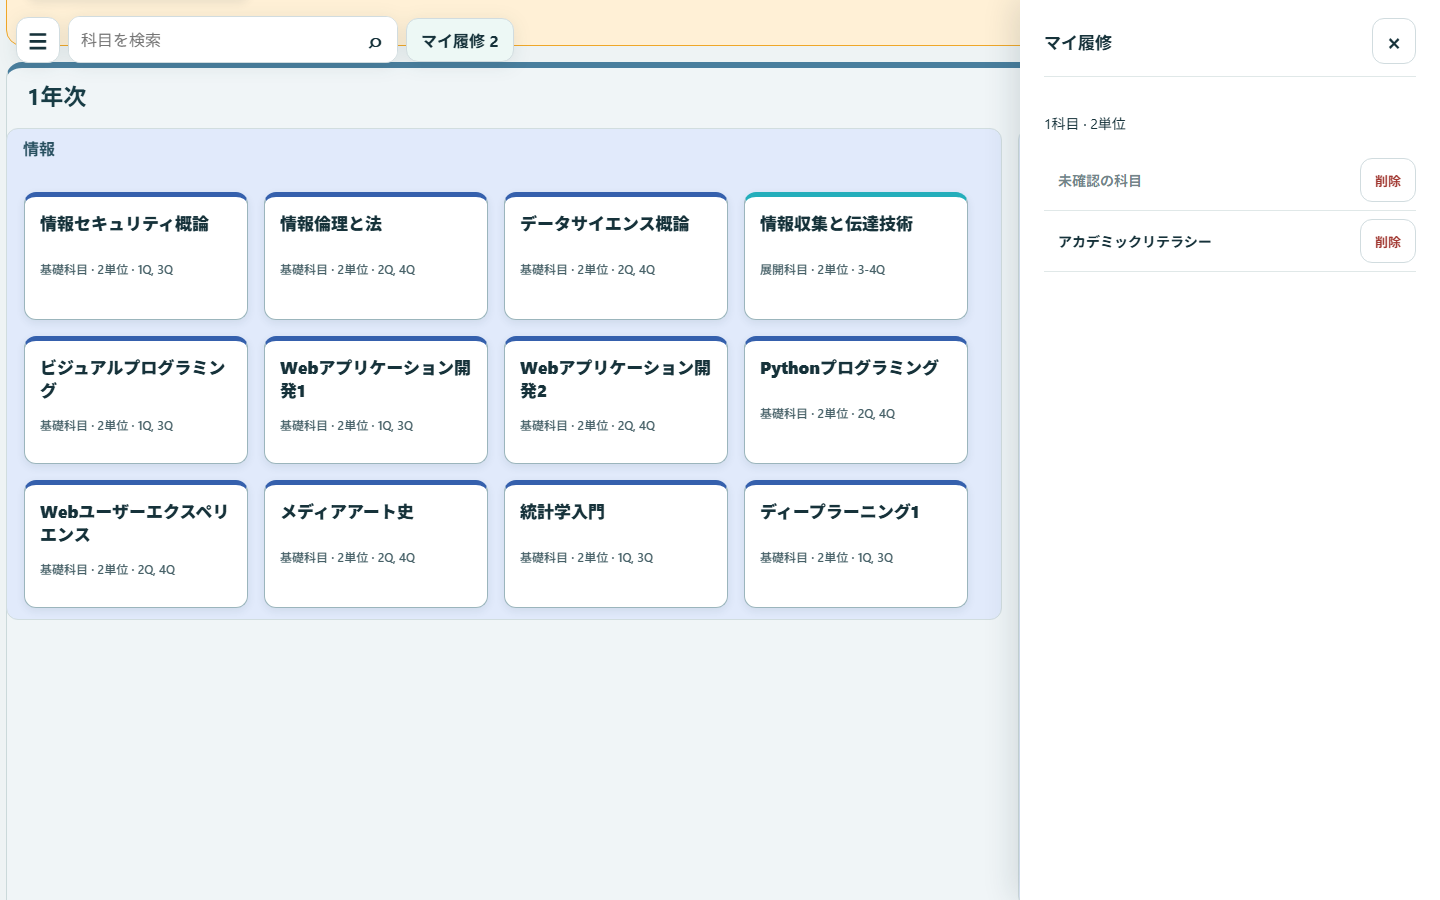
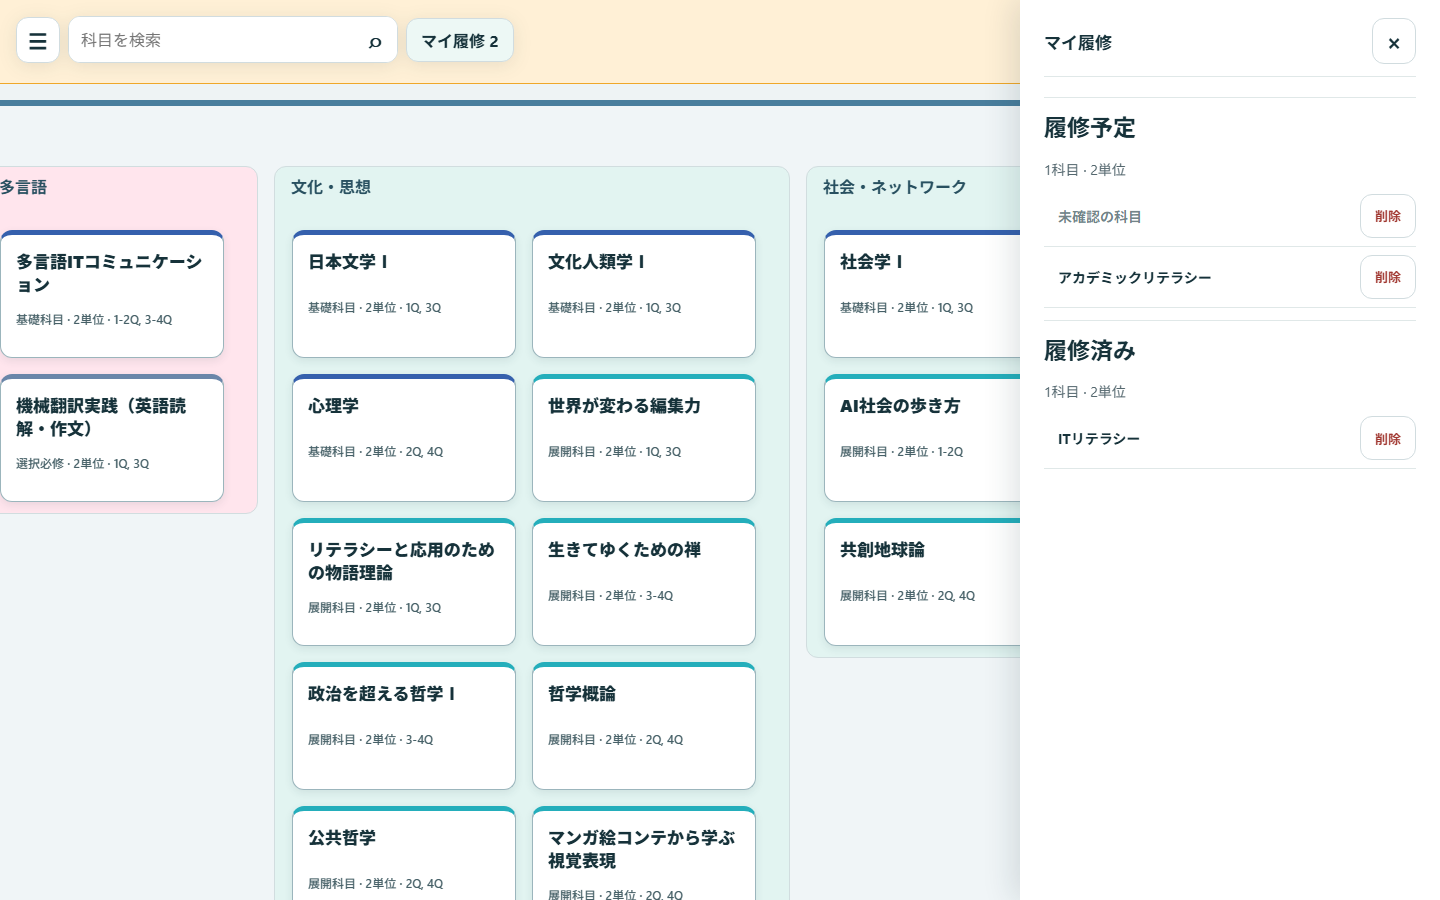
feat: clarify curriculum map enrollment actions

diff --git a/curriculum-map.js b/curriculum-map.js
@@ -82,6 +82,25 @@
     return { scale, x: anchor.x - (anchor.x - camera.x) * scale / camera.scale, y: anchor.y - (anchor.y - camera.y) * scale / camera.scale };
   };
   const centerOn = (box, viewport, scale = 1) => ({ scale, x: viewport.width / 2 - (box.x + box.width / 2) * scale, y: viewport.height / 2 - (box.y + box.height / 2) * scale });
+  // The map opens on the central upper part of the curriculum, where the
+  // first-year subject bands form a useful orientation point. Keeping this
+  // separate from region/search cameras means those explicit movements retain
+  // their existing targets.
+  const initialCamera = (layout, viewport) => {
+    const firstYear = layout.years[0];
+    const centralField = layout.fields.find((field) => field.field === '文化・思想');
+    const centralCard = layout.positions
+      .filter((box) => box.region === 'year-1' && box.field === centralField?.field)
+      .sort((a, b) => a.x - b.x || a.y - b.y)[0];
+    const centralStart = layout.positions
+      .filter((box) => box.region === 'year-1' && box.field === '多言語')
+      .sort((a, b) => a.x - b.x || a.y - b.y)[0];
+    const firstVisibleX = viewport.width < 600
+      ? (centralCard?.x || layout.width / 2)
+      : (centralStart?.x || centralCard?.x || layout.width / 2);
+    const target = { x: firstVisibleX + viewport.width / 2, y: firstYear.y + 350 };
+    return { scale: 1, x: viewport.width / 2 - target.x, y: viewport.height / 2 - target.y };
+  };
   const fitMap = (layout, viewport) => {
     const scale = Math.min((viewport.width - 40) / layout.width, (viewport.height - 140) / layout.height, 1);
     return { scale: Math.max(.05, scale), x: (viewport.width - layout.width * scale) / 2, y: (viewport.height - layout.height * scale) / 2 + 20 };
@@ -136,9 +155,9 @@
         cameraFrame = null;
         world.style.transform = `translate(${camera.x}px, ${camera.y}px) scale(${camera.scale})`;
         doc.getElementById('map-zoom-value').textContent = `${Math.round(camera.scale * 100)}%`;
-        // The leftmost fully readable field is the navigation context on a
-        // wide monitor, where several neighboring fields share the viewport.
-        const center = { x: (Math.min(size().width / 2, 280) - camera.x) / camera.scale, y: (size().height / 2 - camera.y) / camera.scale };
+        // The viewport center is the navigation context so the label follows
+        // the central map area on both desktop and phone layouts.
+        const center = { x: (size().width / 2 - camera.x) / camera.scale, y: (size().height / 2 - camera.y) / camera.scale };
         const year = layout.years.find((region) => center.y >= region.y && center.y < region.y + region.height);
         const field = layout.fields.find((region) => center.x >= region.x && center.x < region.x + region.width);
         doc.getElementById('map-location').textContent = center.y < layout.introHeight ? '導入科目' : center.y >= layout.projectY ? '卒業プロジェクト' : year ? `${year.year}年次 · ${field?.field || '分野を選択'}` : 'カリキュラムマップ';
@@ -157,14 +176,15 @@
       return layout.years.find((year) => centerY >= year.y && centerY < year.y + year.height)?.year || 1;
     };
     const currentField = () => {
-      const centerX = (Math.min(size().width / 2, 280) - camera.x) / camera.scale;
+      const centerX = (size().width / 2 - camera.x) / camera.scale;
       return layout.fields.find((field) => centerX >= field.x && centerX < field.x + field.width)?.field || '情報';
     };
     const regionCamera = (year, field) => ({
       scale: 1,
-      // Start with a complete card near the left edge. Centering an entire
-      // field wasted much of a phone viewport and hid the adjacent cards.
-      x: (size().width < 600 ? 40 : 24) - field.x - 18,
+      // On desktop center the selected field so its location label matches
+      // the view. On phones keep the first card near the left edge because a
+      // full field is wider than the viewport.
+      x: size().width < 600 ? 40 - field.x - 18 : size().width / 2 - field.x - field.width / 2,
       // Keep the preceding row completely above the viewport. The year
       // heading still clears the floating toolbar at normal zoom.
       y: 62 - year.y
@@ -243,7 +263,7 @@
         node.classList.toggle('is-registered', registered.has(id));
         node.classList.toggle('is-completed', completed.has(id));
         node.classList.toggle('is-selected', selectedId === id);
-        node.querySelector('.course-state').textContent = completed.has(id) ? '履修済み' : registered.has(id) ? 'マイ履修 ✓' : '';
+        node.querySelector('.course-state').textContent = completed.has(id) ? '履修済み ✓' : registered.has(id) ? '履修予定 ✓' : '';
       }
       doc.getElementById('map-enrollment-count').textContent = enrollment.registered.ids.length;
       drawRelations();
@@ -282,30 +302,40 @@
       doc.getElementById('map-enrollment-toggle').setAttribute('aria-expanded', 'false');
       if (lastFocus?.isConnected) lastFocus.focus({ preventScroll: true });
     };
-    const saveEnrollment = (id, remove = false) => {
+    const changeEnrollment = (id, target) => {
       // Re-read immediately before a write to preserve changes made in another
-      // Hub tab. Never create a second plan or treat registered as completed.
+      // Hub tab. The two lists are mutually exclusive and the simulator plan
+      // is intentionally not part of this transaction.
+      if (!['registered', 'completed'].includes(target) || !catalog.has(id)) return false;
       const current = utils.readEnrollmentState(storage, keys);
-      const next = new Set(current.registered.ids);
-      if (remove) next.delete(id);
-      else if (!current.completed.ids.includes(id) && catalog.has(id)) next.add(id);
-      const result = utils.saveEnrollmentState(storage, keys, next, current.completed.ids);
+      const nextRegistered = new Set(current.registered.ids);
+      const nextCompleted = new Set(current.completed.ids);
+      const active = target === 'registered' ? nextRegistered.has(id) : nextCompleted.has(id);
+      if (target === 'registered') {
+        if (active) nextRegistered.delete(id);
+        else { nextRegistered.add(id); nextCompleted.delete(id); }
+      } else if (active) {
+        nextCompleted.delete(id);
+      } else {
+        nextCompleted.add(id); nextRegistered.delete(id);
+      }
+      const result = utils.saveEnrollmentState(storage, keys, nextRegistered, nextCompleted);
       enrollment = utils.readEnrollmentState(storage, keys);
       updateNodes();
       if (drawerMode === 'enrollment') renderEnrollment();
       else if (drawerMode === 'detail') renderDetail(selectedId, false);
       if (!result.saved) {
-        console.warn('通常履修を保存できませんでした:', result.error);
+        console.warn('履修状態を保存できませんでした:', result.error);
         status(result.rollbackSucceeded ? '保存できませんでした。再度お試しください。' : '保存状態を確認できません。ページを再読み込みしてください。', true);
-      } else status(remove ? '削除しました' : '追加しました');
+      } else status(active ? '削除しました' : target === 'registered' ? '履修予定に追加しました' : '履修済みに追加しました');
       return result.saved;
     };
-    const renderEnrollment = () => {
-      drawerContent.replaceChildren();
-      const known = enrollment.registered.ids.map((id) => catalog.get(id)).filter(Boolean);
-      drawerContent.append(element('p', `${known.length}科目 · ${known.reduce((sum, course) => sum + Number(course.credits), 0)}単位`));
-      if (!enrollment.registered.ids.length) drawerContent.append(element('p', '科目を選んで追加してください。'));
-      for (const id of enrollment.registered.ids) {
+    const appendEnrollmentGroup = (title, ids, target) => {
+      const section = element('section', undefined, 'enrollment-group');
+      section.append(element('h3', title));
+      const known = ids.map((id) => catalog.get(id)).filter(Boolean);
+      section.append(element('p', `${known.length}科目 · ${known.reduce((sum, course) => sum + Number(course.credits), 0)}単位`));
+      for (const id of ids) {
         const course = catalog.get(id);
         const row = element('div', undefined, 'enrollment-row');
         const detail = element('button', course?.subject || '未確認の科目');
@@ -314,12 +344,19 @@
         detail.addEventListener('click', () => { focusCourse(id); renderDetail(id); });
         const remove = element('button', '削除', 'remove');
         remove.type = 'button';
-        remove.setAttribute('aria-label', `${course?.subject || '未確認の科目'}をマイ履修から削除`);
+        remove.setAttribute('aria-label', `${course?.subject || '未確認の科目'}を${title}から削除`);
         remove.disabled = !enrollment.writable;
-        remove.addEventListener('click', () => saveEnrollment(id, true));
+        remove.addEventListener('click', () => changeEnrollment(id, target));
         row.append(detail, remove);
-        drawerContent.append(row);
+        section.append(row);
       }
+      drawerContent.append(section);
+    };
+    const renderEnrollment = () => {
+      drawerContent.replaceChildren();
+      if (!enrollment.registered.ids.length && !enrollment.completed.ids.length) drawerContent.append(element('p', '科目を選んで追加してください。'));
+      if (enrollment.registered.ids.length) appendEnrollmentGroup('履修予定', enrollment.registered.ids, 'registered');
+      if (enrollment.completed.ids.length) appendEnrollmentGroup('履修済み', enrollment.completed.ids, 'completed');
     };
     const renderDetail = (id, open = true) => {
       const course = catalog.get(id);
@@ -333,11 +370,19 @@
         if (value) metadata.append(element('dt', label), element('dd', value));
       }
       drawerContent.append(metadata);
-      const action = element('button', enrollment.completed.ids.includes(id) ? '履修済み' : enrollment.registered.ids.includes(id) ? 'マイ履修から削除' : 'マイ履修に追加', 'enrollment-action');
-      action.type = 'button';
-      action.disabled = !enrollment.writable || enrollment.completed.ids.includes(id);
-      action.addEventListener('click', () => saveEnrollment(id, enrollment.registered.ids.includes(id)));
-      drawerContent.append(action);
+      const planned = enrollment.registered.ids.includes(id);
+      const completed = enrollment.completed.ids.includes(id);
+      const actions = element('div', undefined, 'enrollment-actions');
+      const plannedAction = element('button', planned ? '履修予定から削除' : '履修予定に追加', 'enrollment-action enrollment-action-planned');
+      plannedAction.type = 'button';
+      plannedAction.disabled = !enrollment.writable;
+      plannedAction.addEventListener('click', () => changeEnrollment(id, 'registered'));
+      const completedAction = element('button', completed ? '履修済みから削除' : '履修済みに追加', 'enrollment-action enrollment-action-completed');
+      completedAction.type = 'button';
+      completedAction.disabled = !enrollment.writable;
+      completedAction.addEventListener('click', () => changeEnrollment(id, 'completed'));
+      actions.append(plannedAction, completedAction);
+      drawerContent.append(actions);
       if (course.description) drawerContent.append(element('p', course.description));
       const rating = difficulty[id];
       if (rating && typeof rating.average === 'number') {
@@ -385,7 +430,7 @@
     dropTarget.addEventListener('drop', (event) => {
       event.preventDefault();
       const id = event.dataTransfer.getData('application/x-zen-course-id') || event.dataTransfer.getData('text/plain');
-      if (catalog.has(id)) saveEnrollment(id);
+      if (catalog.has(id)) changeEnrollment(id, 'registered');
       dropTarget.hidden = true;
       dropTarget.classList.remove('is-over');
       dragging = false;
@@ -521,10 +566,9 @@
     win.addEventListener('resize', applyCamera);
     doc.getElementById('map-app').hidden = false;
     doc.getElementById('map-unavailable').hidden = true;
-    // Start at the first dense year/field panel instead of centering on a
-    // single card; this keeps whole cards and the panel heading in view.
-    const firstField = layout.fields.find((field) => field.field === '情報');
-    camera = regionCamera(layout.years[0], firstField);
+    // Start in the map's central upper area at readable scale. Search, year,
+    // field, and fit controls continue to use their explicit camera targets.
+    camera = initialCamera(layout, size());
     applyCamera(); updateNodes();
     if (!enrollment.writable) status('保存データを読み取れません。既存データは変更しません。', true);
     // Optional datasets do not block the map or enrollment if unavailable.
@@ -533,5 +577,5 @@
       fetchJSON('difficulty.json').then((data) => { difficulty = Array.isArray(data) ? Object.fromEntries(data.map((item) => [item.courseId || item.id, item])) : data; }).catch((error) => console.warn('難易度を読み込めません:', error))
     ]);
   }
-  return { buildLayout, intersects, zoomAt, centerOn, fitMap, start };
+  return { buildLayout, intersects, zoomAt, centerOn, initialCamera, fitMap, start };
 }));

diff --git a/tests/curriculum-map.test.js b/tests/curriculum-map.test.js
@@ -41,6 +41,20 @@ test('every course in all four years can be centered at readable 100 percent', (
   }
 });
 
+test('initial camera starts at the central upper curriculum area at 100 percent', () => {
+  const layout = map.buildLayout(definition, courses);
+  for (const viewport of [{ width: 1440, height: 900 }, { width: 390, height: 844 }]) {
+    const camera = map.initialCamera(layout, viewport);
+    const centerX = (viewport.width / 2 - camera.x) / camera.scale;
+    const centerY = (viewport.height / 2 - camera.y) / camera.scale;
+    assert.equal(camera.scale, 1);
+    const centralField = layout.fields.find((field) => field.field === '文化・思想');
+    assert.ok(centerX >= centralField.x && centerX < centralField.x + centralField.width);
+    assert.ok(centerY >= layout.years[0].y && centerY < layout.years[0].y + layout.years[0].height);
+    assert.ok(layout.positions.some((box) => box.region === 'year-1' && box.x <= centerX + viewport.width / 2 && box.x + box.width >= centerX - viewport.width / 2 && box.y <= centerY + viewport.height / 2 && box.y + box.height >= centerY - viewport.height / 2));
+  }
+});
+
 test('cursor anchored zoom preserves its world point and clamps extremes', () => {
   const camera = { scale: 1, x: -2100, y: -3400 }, anchor = { x: 200, y: 300 };
   for (const scale of [.05, .7, 1.6, 2.4]) {
@@ -71,4 +85,16 @@ test('standalone runtime uses shared enrollment rollback and safe text/link rend
   assert.doesNotMatch(source, /innerHTML|localStorage\.clear|fourYearSimulatorPlanV1/);
   assert.match(source, /utils.sanitizeExternalUrl/);
   assert.match(source, /textContent = text/);
+});
+
+test('standalone map exposes separate planned and completed enrollment actions', () => {
+  const html = fs.readFileSync('curriculum.html', 'utf8');
+  const source = fs.readFileSync('curriculum-map.js', 'utf8');
+  assert.match(html, /ホームに戻る/);
+  assert.match(html, /履修予定に追加/);
+  assert.match(source, /履修予定に追加/);
+  assert.match(source, /履修済みに追加/);
+  assert.match(source, /changeEnrollment/);
+  assert.match(source, /utils\.saveEnrollmentState\(storage, keys, nextRegistered, nextCompleted\)/);
+  assert.doesNotMatch(source, /fourYearSimulatorPlanV1/);
 });

diff --git a/index.html b/index.html
@@ -41,7 +41,7 @@
   <div class="input-area">
     <input id="search-bar" type="text" placeholder="授業名や教員名で検索...">
     <nav class="primary-view-navigation" aria-label="主要ビュー">
-      <button id="course-list-nav" class="primary-view-button view-list" type="button" data-view="list" aria-pressed="true">一覧</button>
+      <button id="course-list-nav" class="primary-view-button view-list" type="button" data-view="list" aria-pressed="true">ホーム</button>
       <!-- 公開可否は curriculum-config.js で判定する。判定前に導線が一瞬表示されないよう初期状態は隠す。 -->
       <button id="curriculum-tree-nav" class="primary-view-button view-tree" type="button" data-view="tree" aria-pressed="false" hidden>カリキュラムツリー</button>
       <button id="simulator-btn" class="primary-view-button view-simulator simulator-launch-btn" type="button" data-view="simulator" aria-pressed="false" aria-label="4年計画 β">
@@ -135,7 +135,7 @@
           <h2 id="curriculum-tree-title">カリキュラムツリー</h2>
           <p class="curriculum-tree-note">公式カリキュラムツリーの構図を参考にした非公式プレビューです。公式図の関係と履修上の前提条件は別物です。</p>
         </div>
-        <button id="curriculum-tree-close" class="curriculum-tree-close" type="button">一覧に戻る</button>
+        <button id="curriculum-tree-close" class="curriculum-tree-close" type="button">ホームに戻る</button>
       </div>
       <div class="curriculum-structure-bar" aria-label="カリキュラム構造">
         <span class="curriculum-structure-label">学修段階</span>

diff --git a/curriculum.html b/curriculum.html
@@ -27,7 +27,7 @@
     <output id="map-location" aria-label="表示中の領域"></output>
     <nav id="map-menu" class="map-menu" hidden aria-label="マップメニュー">
       <h1>カリキュラムマップ</h1>
-      <a id="map-back" href="index.html">一覧へ戻る</a>
+      <a id="map-back" href="index.html">ホームに戻る</a>
       <div class="year-actions" aria-label="学年へ移動">
         <button type="button" data-map-year="1">1年次</button><button type="button" data-map-year="2">2年次</button><button type="button" data-map-year="3">3年次</button><button type="button" data-map-year="4">4年次</button>
       </div>
@@ -50,8 +50,8 @@
       <header><h2 id="map-drawer-title">マイ履修</h2><button id="map-drawer-close" class="icon-button" type="button" aria-label="閉じる">×</button></header>
       <div id="map-drawer-content"></div>
     </aside>
-    <div id="map-drop-target" hidden>マイ履修に追加</div>
+    <div id="map-drop-target" hidden role="region" aria-label="履修予定に追加">履修予定に追加</div>
   </main>
-  <section id="map-unavailable" class="unavailable"><h1>カリキュラムマップ</h1><p id="map-loading-message">読み込み中…</p><a href="index.html">一覧へ戻る</a></section>
+  <section id="map-unavailable" class="unavailable"><h1>カリキュラムマップ</h1><p id="map-loading-message">読み込み中…</p><a href="index.html">ホームに戻る</a></section>
 </body>
 </html>

diff --git a/curriculum-map.css b/curriculum-map.css
@@ -68,6 +68,13 @@ a { color: #087764; }
 #map-drawer-content dd { margin: 0; }
 .enrollment-action { width: 100%; color: white; background: #087e6a; border-color: #087e6a; margin: 14px 0; }
 .enrollment-action:hover { color: #087e6a; }
+.enrollment-actions { display: grid; grid-template-columns: 1fr 1fr; gap: 10px; }
+.enrollment-actions .enrollment-action { margin: 14px 0 10px; }
+.enrollment-action-completed { background: #5362ac; border-color: #5362ac; }
+.enrollment-action-completed:hover { color: #5362ac; }
+.enrollment-group { border-top: 1px solid #e0e8e8; padding: 12px 0; }
+.enrollment-group h3 { margin: 0; font-size: 16px; }
+.enrollment-group > p { margin: 4px 0; color: #54676e; font-size: 13px; }
 .enrollment-row { display: flex; gap: 8px; align-items: center; padding: 8px 0; border-bottom: 1px solid #e0e8e8; }
 .enrollment-row > button:first-child { flex: 1; text-align: left; border: 0; font-size: 14px; }
 .enrollment-row .remove { font-size: 13px; color: #a13831; }
@@ -89,4 +96,5 @@ a { color: #087764; }
   .map-zoom button { font-size: 13px; padding: 8px; }
   .map-zoom .icon-button { font-size: 20px; }
   .map-drawer { top: auto; height: min(78dvh, 760px); width: 100%; border-radius: 22px 22px 0 0; padding: 18px 20px max(18px, env(safe-area-inset-bottom)); }
+  .enrollment-actions { grid-template-columns: 1fr; gap: 0; }
 }
